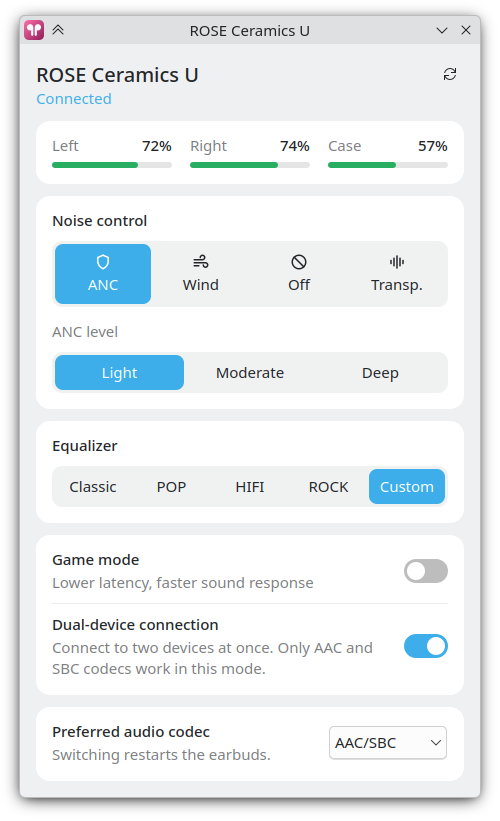
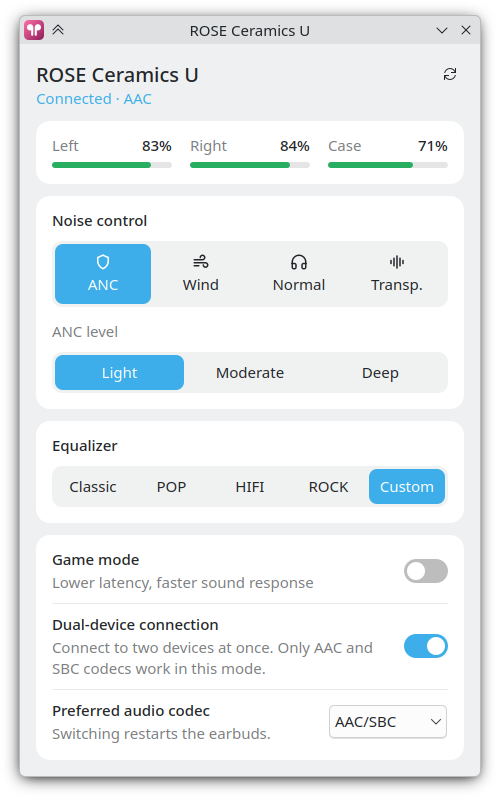
Refine panel UI and status display

diff --git a/rosebuds-tray.py b/rosebuds-tray.py
@@ -6,6 +6,7 @@ Start with --show to open the panel right away.
 """
 import signal
 import sys
+from collections import deque
 from concurrent.futures import ThreadPoolExecutor
 from functools import partial
 
@@ -15,7 +16,7 @@ from PySide6.QtCore import (
     SLOT, QByteArray, QEvent, QObject, QPointF, QRectF, QSize, QStandardPaths, Qt, QTimer, Signal, Slot,
 )
 from PySide6.QtDBus import QDBusConnection
-from PySide6.QtGui import QAction, QActionGroup, QColor, QIcon, QPainter, QPalette, QPixmap
+from PySide6.QtGui import QAction, QActionGroup, QColor, QIcon, QKeySequence, QPainter, QPalette, QPixmap, QShortcut
 from PySide6.QtNetwork import QLocalServer, QLocalSocket
 from PySide6.QtSvg import QSvgRenderer
 from PySide6.QtWidgets import (
@@ -27,7 +28,7 @@ import rosebuds as r
 
 REFRESH_MS = 60_000
 # Same order as the ROSELINK app.
-MODE_LABELS = {"on": "ANC", "wind": "Wind", "off": "Off", "trans": "Transparency"}
+MODE_LABELS = {"on": "ANC", "wind": "Wind", "off": "Normal", "trans": "Transparency"}
 LEVEL_LABELS = {"light": "Light", "moderate": "Moderate", "deep": "Deep"}
 MODE_OPTIONS = [(r.MODES[k], label) for k, label in MODE_LABELS.items()]
 LEVEL_OPTIONS = [(r.LEVELS[k], label) for k, label in LEVEL_LABELS.items()]
@@ -128,6 +129,7 @@ def stylesheet():
     QLabel#cardTitle, QLabel#value {{ font-weight: 600; }}
     QLabel#muted, QLabel#state {{ color: {tint(0.6)}; }}
     QLabel#state[ok="true"] {{ color: {color(QPalette.ColorRole.Highlight)}; }}
+    QLabel#state[error="true"] {{ color: {BATTERY_LOW}; }}
     QProgressBar {{ background: {tint(0.12)}; border: none; border-radius: 3px; }}
     QProgressBar::chunk {{ background: {BATTERY_OK}; border-radius: 3px; }}
     QProgressBar[low="true"]::chunk {{ background: {BATTERY_LOW}; }}
@@ -285,6 +287,7 @@ class Panel(QWidget):
         self.setWindowTitle(DEFAULT_NAME)
         self.setWindowIcon(load_app_icon())
         self.setFixedWidth(460)
+        QShortcut(QKeySequence(Qt.Key.Key_Escape), self, self.hide)
 
         root = QVBoxLayout(self)
         root.setContentsMargins(16, 16, 16, 16)
@@ -297,16 +300,31 @@ class Panel(QWidget):
         self.title.setObjectName("title")
         self.state = QLabel("Connecting…")
         self.state.setObjectName("state")
+        self._status, self._ok, self._error, self._applying = "Connecting…", False, False, False
         self.state.setWordWrap(True)
         titles.addWidget(self.title)
         titles.addWidget(self.state)
+        self.warning = QWidget()
+        warning = QHBoxLayout(self.warning)
+        warning.setContentsMargins(0, 2, 0, 0)
+        warning.setSpacing(6)
+        icon = QLabel()
+        icon.setPixmap(QIcon.fromTheme("dialog-warning").pixmap(16, 16))
+        icon.setContentsMargins(0, 2, 0, 0)
+        text = QLabel(UNTESTED)
+        text.setObjectName("muted")
+        text.setWordWrap(True)
+        warning.addWidget(icon, 0, Qt.AlignmentFlag.AlignTop)
+        warning.addWidget(text, 1)
+        self.warning.hide()
+        titles.addWidget(self.warning)
         header.addLayout(titles, 1)
-        refresh = QToolButton()
-        refresh.setIcon(QIcon.fromTheme("view-refresh"))
-        refresh.setToolTip("Refresh")
-        refresh.setAutoRaise(True)
-        refresh.clicked.connect(tray.refresh)
-        header.addWidget(refresh, 0, Qt.AlignmentFlag.AlignTop)
+        self.refresh_button = QToolButton()
+        self.refresh_button.setIcon(QIcon.fromTheme("view-refresh"))
+        self.refresh_button.setToolTip("Refresh")
+        self.refresh_button.setAutoRaise(True)
+        self.refresh_button.clicked.connect(tray.refresh)
+        header.addWidget(self.refresh_button, 0, Qt.AlignmentFlag.AlignTop)
         root.addLayout(header)
 
         card = self._card(root)
@@ -324,12 +342,13 @@ class Panel(QWidget):
         self.modes.picked.connect(lambda v: tray.run(lambda b: b.set_mode(v)))
         card.addWidget(self.modes)
         card.addSpacing(4)
-        card.addWidget(self._label("ANC level", "muted"))
+        self.levels_label = self._label("ANC level", "muted")
+        card.addWidget(self.levels_label)
         self.levels = Segmented(LEVEL_OPTIONS)
         self.levels.picked.connect(lambda v: tray.run(lambda b: b.set_level(v)))
         card.addWidget(self.levels)
         # The level only matters in ANC mode, so follow the mode selection right away.
-        self.modes.picked.connect(lambda v: self.levels.setEnabled(v == r.MODES["on"]))
+        self.modes.picked.connect(lambda v: self._set_levels_enabled(v == r.MODES["on"]))
 
         card = self._card(root, "Equalizer")
         self.eq = Segmented(EQ_OPTIONS)
@@ -350,8 +369,10 @@ class Panel(QWidget):
         card.addLayout(self._setting_row(
             "Dual-device connection",
             "Connect to two devices at once. Only AAC and SBC codecs work in this mode.", self.dual))
-
-        card = self._card(root)
+        divider = QFrame()
+        divider.setObjectName("divider")
+        divider.setFixedHeight(1)
+        card.addWidget(divider)
         self.codec = Dropdown(CODEC_OPTIONS)
         self.codec.picked.connect(lambda v: tray.switch_codec(v, self))
         card.addLayout(self._setting_row("Preferred audio codec", "Switching restarts the earbuds.", self.codec))
@@ -367,6 +388,12 @@ class Panel(QWidget):
         label = QLabel(text)
         label.setObjectName(name)
         return label
+
+    def _set_levels_enabled(self, enabled):
+        self.levels.setEnabled(enabled)
+        tip = "" if enabled else "Only available in ANC mode"
+        self.levels.setToolTip(tip)
+        self.levels_label.setToolTip(tip)
 
     def _setting_row(self, title, note, control):
         row = QHBoxLayout()
@@ -412,10 +439,28 @@ class Panel(QWidget):
         event.ignore()
         self.hide()
 
-    def show_error(self, message):
-        self.state.setText(message)
-        self.state.setProperty("ok", False)
+    def _set_status(self, text, ok, error=False):
+        self._status, self._ok, self._error = text, ok, error
+        self._render_status()
+
+    def _render_status(self):
+        self.state.setText("Applying…" if self._applying else self._status)
+        self.state.setProperty("ok", self._ok and not self._applying)
+        self.state.setProperty("error", self._error and not self._applying)
         repolish(self.state)
+
+    def set_busy(self, busy, applying):
+        """Disable refresh while the earbuds are read. Show "Applying…" while a change is sent."""
+        self.refresh_button.setEnabled(not busy)
+        if applying != self._applying:
+            self._applying = applying
+            self._render_status()
+            self._fit_height()
+
+    def show_unavailable(self, message):
+        # A restart is expected, so it isn't styled as an error.
+        self._set_status(message, False, error=message != RESTARTING)
+        self.warning.hide()
         for widget in self.controls:
             widget.setEnabled(False)
         self._fit_height()
@@ -423,10 +468,8 @@ class Panel(QWidget):
     def show_settings(self, device, settings, codec):
         self.title.setText(device.alias)
         self.setWindowTitle(device.alias)
-        parts = ["Connected", codec, None if device.tested else UNTESTED]
-        self.state.setText(" · ".join(p for p in parts if p))
-        self.state.setProperty("ok", True)
-        repolish(self.state)
+        self._set_status(f"Connected · {codec}" if codec else "Connected", True)
+        self.warning.setVisible(not device.tested)
         for gauge, (_, pct, charging) in zip(self.gauges, r.battery_levels(settings)):
             gauge.set_level(pct, charging)
         mode = settings.get(r.MODE_KEY, b"\xff")[0]
@@ -442,7 +485,7 @@ class Panel(QWidget):
         for value, _ in CODEC_OPTIONS:
             allowed = value == r.CODECS["aac"] or not dual
             self.codec.set_allowed(value, allowed, "" if allowed else DUAL_ONLY_AAC)
-        self.levels.setEnabled(mode == r.MODES["on"])
+        self._set_levels_enabled(mode == r.MODES["on"])
         self._fit_height()
 
 
@@ -454,7 +497,8 @@ class Tray(QObject):
         super().__init__()
         # One worker, so only one connection to the earbuds is open at a time.
         self.pool = ThreadPoolExecutor(max_workers=1)
-        self.pending = 0
+        # One entry per queued job, in order: True if it changes a setting.
+        self.queue = deque()
         self.settings = {}
         self.result.connect(self._show)
         self.panel = Panel(self)
@@ -535,8 +579,8 @@ class Tray(QObject):
 
     def refresh(self):
         # The timer, the panel and the menu can overlap; one queued status read is enough.
-        if not self.pending:
-            self.run(lambda b: b.get_all())
+        if not self.queue:
+            self.run(lambda b: b.get_all(), applying=False)
 
     @Slot(str, "QVariantMap", "QStringList")
     def _on_bluez_changed(self, interface, changed, _invalidated):
@@ -545,8 +589,9 @@ class Tray(QObject):
                 or interface == "org.bluez.MediaTransport1" and "State" in changed):
             self.refresh()
 
-    def run(self, job):
-        self.pending += 1
+    def run(self, job, applying=True):
+        self.queue.append(applying)
+        self.panel.set_busy(True, any(self.queue))
         self.pool.submit(self._work, job)
 
     def switch_dual(self, on, parent):
@@ -615,7 +660,8 @@ class Tray(QObject):
         self.tray.setIcon(self.icons[connected])
 
     def _show(self, result):
-        self.pending -= 1
+        self.queue.popleft()
+        self.panel.set_busy(bool(self.queue), any(self.queue))
         device, settings, codec = (None, None, None) if isinstance(result, str) else result
         if not settings:
             message = result if isinstance(result, str) else NO_REPLY
@@ -625,7 +671,7 @@ class Tray(QObject):
             self.tray.setToolTip(f"{self.name}\n{message}")
             for action in self.controls:
                 action.setEnabled(False)
-            self.panel.show_error(message)
+            self.panel.show_unavailable(message)
             return
 
         self.name = device.alias

diff --git a/rosebuds.py b/rosebuds.py
@@ -329,7 +329,7 @@ SETTING_NAMES = {
 }
 COMMANDS = {"anc": MODE_KEY, "anc-level": LEVEL_KEY, "eq": EQ_KEY, "game": GAME_KEY,
             "dual": DUAL_KEY, "codec": CODEC_KEY}
-VALUE_ALIASES = {"transparency": "trans", "sbc": "aac"}
+VALUE_ALIASES = {MODE_KEY: {"transparency": "trans", "normal": "off"}, CODEC_KEY: {"sbc": "aac"}}
 
 
 def usage_error(message):
@@ -355,7 +355,7 @@ def parse_command(args):
         if len(rest) > 1:
             usage_error(f"'{cmd}' takes one value.")
         values = SETTING_NAMES[key][1]
-        name = VALUE_ALIASES.get(rest[0], rest[0])
+        name = VALUE_ALIASES.get(key, {}).get(rest[0], rest[0])
         if name not in values:
             usage_error(f"Unknown {cmd} value '{rest[0]}'. Choose from: {', '.join(values)}.")
         return "set", key, values[name]
